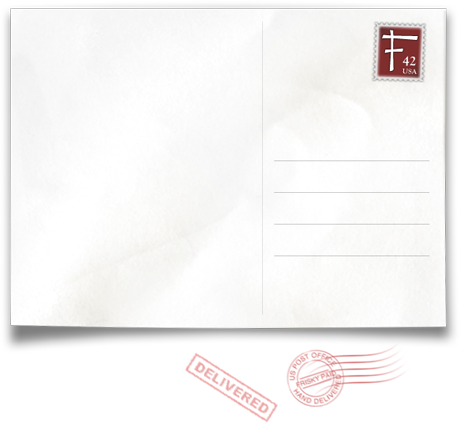
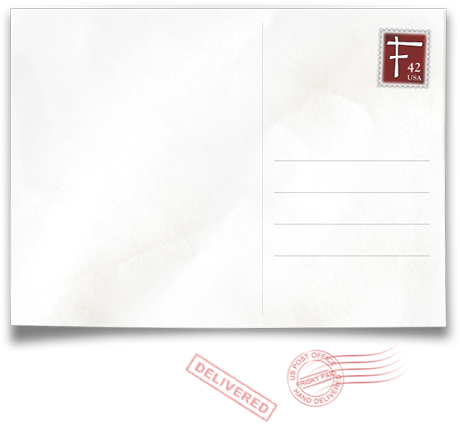
Popup postcard

Changed region(s): [[0.7913, 0.0304, 0.9435, 0.2131]]

diff --git a/public/stylesheets/friskyhands/waves/postcard.css b/public/stylesheets/friskyhands/waves/postcard.css
@@ -7,11 +7,19 @@
 }
 
 .postcard .grid_5 {
+	margin-top: 22px;
     width: 226px;
 	height: 300px;
 	padding-left: 26px;
-	padding-top: 26px;
+	padding-top: 0px;
 	overflow: hidden;
+}
+
+.postcard .grid_3 {
+	position: relative;
+	margin-top: 22px;
+	overflow: hidden;
+	height: 300px;
 }
 
 .postcard .thread {
@@ -172,16 +180,9 @@
 	border-bottom-left-radius: 10px 20px; 
 }
 
-.postcard .stamp {
-	position: relative;
-	margin-top: 26px;
-    width: 160px;
-    height: 110px;    
-}
-
 .postcard .franking {
     position: absolute;
-    top: 20px;
+	top: 10px;
     left: 20px;
     width: 130px;
     height: 64px;
@@ -199,13 +200,14 @@
 }
 
 .postcard .address {
+	margin-top: 120px;
+	height: 140px;
     color: lightgray;
-    height: 144px;
     line-height: 32px;
 	padding-left: 3px;
 }
 
-.wave_conversation .address img {
+.postcard .address img {
 	margin-left: -6px;
 }
 
@@ -242,17 +244,33 @@
 }
 
 .postcard a.close {
+	position: absolute;
 	display: block;
-	float: right;
-	margin-top: 8px;
-	margin-right: 13px;
+	right: 14px;
+	top: 10px;
 	width: 15px;
 	height: 15px;
 	background: url(/images/friskyhands/buddy-bar.png) -244px -3px no-repeat;
 	text-indent: -1000em;
 }
 
-.ui-draggable.postcard {
+.postcard a.popup {
+	position: absolute;
+	display: block;
+	top: 10px;
+	right: 34px;
+	width: 14px;
+	height: 18px;
+	background: url(/images/friskyhands/buddy-bar.png) -260px -3px no-repeat;
+	text-indent: -1000em;
+}
+
+.popup .postcard a.close,
+.popup .postcard a.popup {
+	display: none;
+}
+
+.postcard.ui-draggable {
 	cursor: move;
 }
 

diff --git a/public/javascripts/jquery.postcard.js b/public/javascripts/jquery.postcard.js
@@ -21,6 +21,22 @@
 				});
 
 				$this
+					.find('.popup')
+						.click(function(event) {
+							event.preventDefault();							
+							var url = $(this).attr('href');
+							var receiver = $(this).closest('.wave').find('.received a.profile').text();
+							
+							var popup = window.open(url, url,
+								'width=480,height=350,menubar=no,resizable=no,scrollbars=no,status=no,toolbar=no');
+								
+							$(event.target).closest('.postcard')
+								.fadeOut(function() {
+									$(this).closest('.floating').andSelf().remove();								
+								})
+						})
+					.end()
+					
 					.find('.thread')
 						.each(function(idx, thread) {
 							thread.scrollTop = thread.scrollHeight;

diff --git a/public/javascripts/waves/wave.js b/public/javascripts/waves/wave.js
@@ -7,10 +7,13 @@ jQuery(document).ready(function($) {
 	$('button[type="submit"]').button({ icons: { primary: 'ui-icon-check' }});
 	$('button.cancel').button({ icons: { primary: 'ui-icon-close' }});
 
-	// Set up polaroids
+	// Set up static polaroids
 	$('.polaroid-container > .polaroid').polaroid();
 
-	// Set up click-to-polaroid from a.profile
+	// Set up static postcards
+	$('.postcard').postcard();
+
+	// Set up static click-to-polaroid from a.profile
 	$('a[href^="/wave/profiles"].profile').live('click', function(event) {
 		event.preventDefault();
 		$('<div class="floating"></div>')

diff --git a/public/javascripts/waves/inbox.js b/public/javascripts/waves/inbox.js
@@ -1,7 +1,6 @@
 jQuery(function($) {
 
 	$('.postcard', '.inbox')
-		.postcard()
 		.draggable({
 			cancel: '.thread, textarea, button',
 			stack: '.wave_conversation',

diff --git a/app/controllers/wave/conversations_controller.rb b/app/controllers/wave/conversations_controller.rb
@@ -15,11 +15,20 @@ class Wave::ConversationsController < ApplicationController
   end
 
   def show
-    # current_user's conversation with another identified by other user's profile_id.
-    user = Wave::Profile.find_by_id(params[:profile_id]).try(:user)
-    @wave = current_user.conversation.with(user) || current_user.create_conversation_with(user)
+    # Show conversation postcard identified by either
+    # :id or by the :profile_id of the other user.
+    
     respond_to do |format|
-      format.html { render :layout => false }
+      if params[:profile_id]
+        user = Wave::Profile.find_by_id(params[:profile_id]).try(:user)
+        @wave = current_user.conversation.with(user) || current_user.create_conversation_with(user)
+        format.html { render :layout => false }
+      else
+        @popup = true
+        @wave = current_user.conversations.find_by_id(params[:id])
+        @title = "FriskyHands with #{@wave.recipient.first_name}"
+        format.html
+      end
     end
   end
   
@@ -34,4 +43,13 @@ class Wave::ConversationsController < ApplicationController
     end
   end
   
+  # def popup
+  #   @popup = true
+  #   @wave = current_user.conversations.find_by_id(params[:id])
+  #   @title = "FriskyHands with #{@wave.recipient.first_name}"
+  #   respond_to do |format|
+  #     format.html
+  #   end
+  # end
+    
 end

diff --git a/config/routes.rb b/config/routes.rb
@@ -9,8 +9,11 @@ Friskyfactory::Application.routes.draw do
       member { get 'photos' }
       get 'conversation' => 'conversations#show'
     end
-    resources :conversations, :only => [ :index ] do
-      member { put 'close' }
+    resources :conversations, :only => [ :index, :show ] do
+      member do
+        put 'close'
+        # get 'popup'
+      end
     end
   end
 
